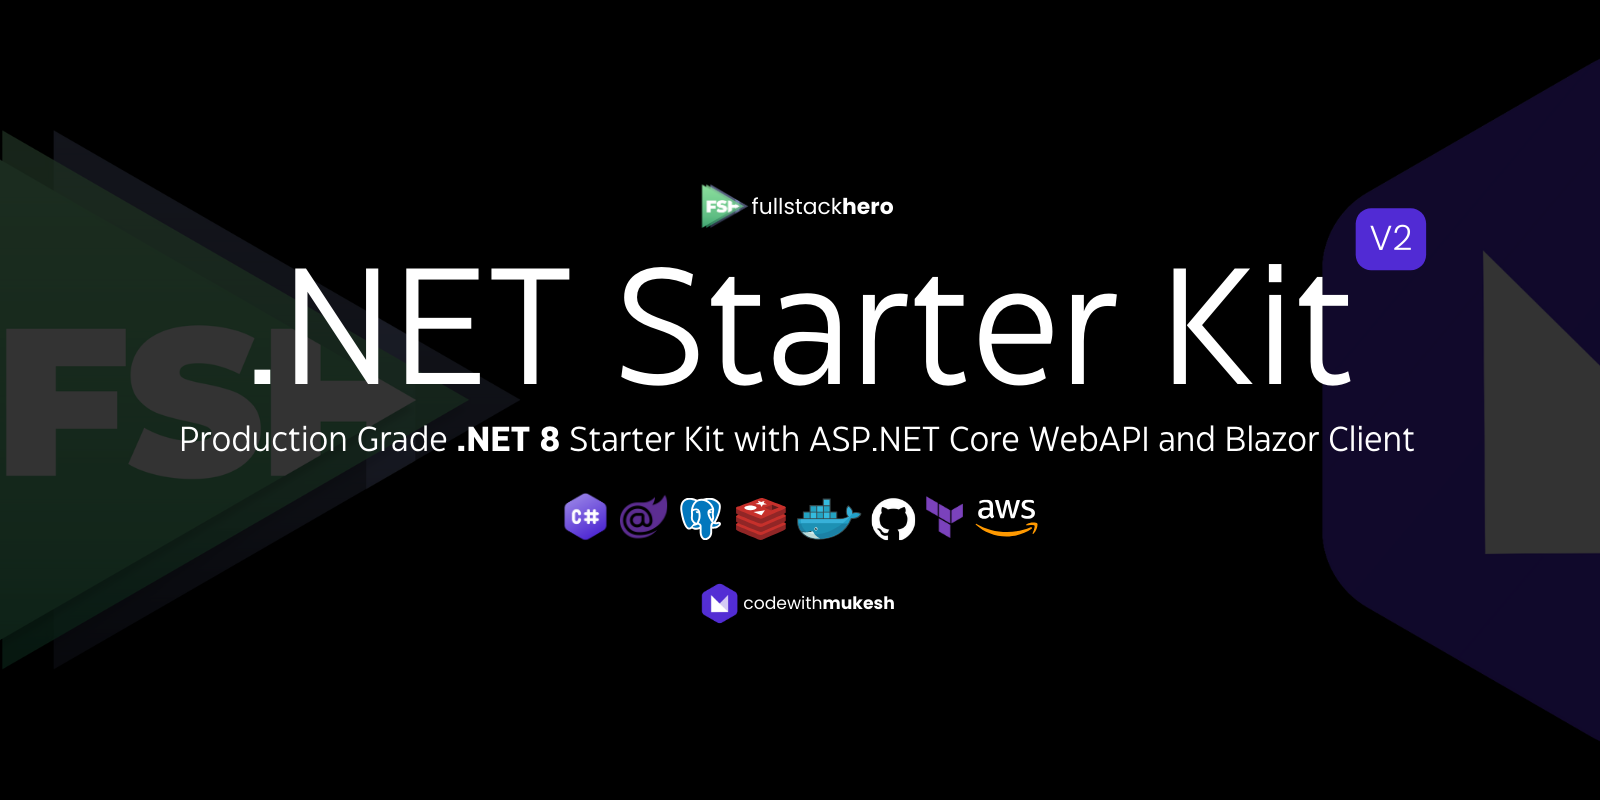
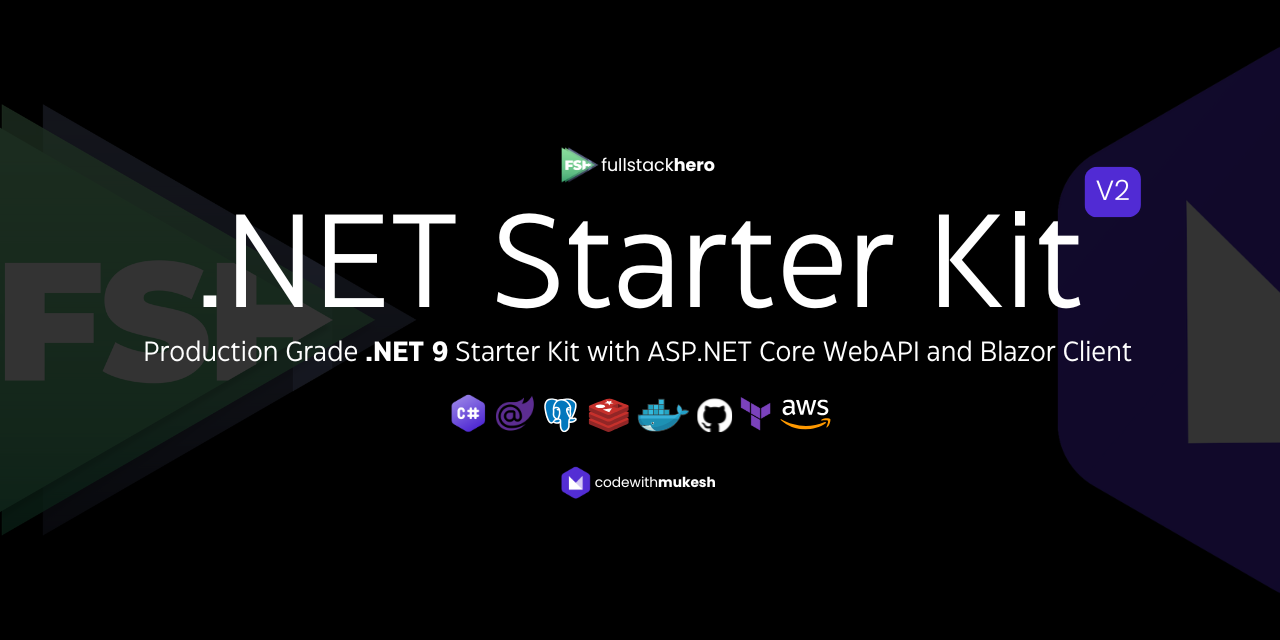
feat : upgrade to .NET 9 (#1061)
* update nuget and deps to 9.0

* update infra

* update to .net 9

* update docs

* fix issue

diff --git a/src/apps/blazor/infrastructure/Themes/CustomTypography.cs b/src/apps/blazor/infrastructure/Themes/CustomTypography.cs
@@ -8,7 +8,7 @@ public static class CustomTypography
     {
         Default = new Default()
         {
-            FontFamily = new[] { "Montserrat", "Helvetica", "Arial", "sans-serif" },
+            FontFamily = ["Montserrat", "Helvetica", "Arial", "sans-serif"],
             FontSize = ".875rem",
             FontWeight = 400,
             LineHeight = 1.43,
@@ -16,7 +16,7 @@ public static class CustomTypography
         },
         H1 = new H1()
         {
-            FontFamily = new[] { "Montserrat", "Helvetica", "Arial", "sans-serif" },
+            FontFamily = ["Montserrat", "Helvetica", "Arial", "sans-serif"],
             FontSize = "3rem",
             FontWeight = 300,
             LineHeight = 1.167,
@@ -24,7 +24,7 @@ public static class CustomTypography
         },
         H2 = new H2()
         {
-            FontFamily = new[] { "Montserrat", "Helvetica", "Arial", "sans-serif" },
+            FontFamily = ["Montserrat", "Helvetica", "Arial", "sans-serif"],
             FontSize = "2.75rem",
             FontWeight = 300,
             LineHeight = 1.2,
@@ -32,7 +32,7 @@ public static class CustomTypography
         },
         H3 = new H3()
         {
-            FontFamily = new[] { "Montserrat", "Helvetica", "Arial", "sans-serif" },
+            FontFamily = ["Montserrat", "Helvetica", "Arial", "sans-serif"],
             FontSize = "2rem",
             FontWeight = 400,
             LineHeight = 1.167,
@@ -40,7 +40,7 @@ public static class CustomTypography
         },
         H4 = new H4()
         {
-            FontFamily = new[] { "Montserrat", "Helvetica", "Arial", "sans-serif" },
+            FontFamily = ["Montserrat", "Helvetica", "Arial", "sans-serif"],
             FontSize = "1.75rem",
             FontWeight = 400,
             LineHeight = 1.235,
@@ -48,7 +48,7 @@ public static class CustomTypography
         },
         H5 = new H5()
         {
-            FontFamily = new[] { "Montserrat", "Helvetica", "Arial", "sans-serif" },
+            FontFamily = ["Montserrat", "Helvetica", "Arial", "sans-serif"],
             FontSize = "1.5rem",
             FontWeight = 400,
             LineHeight = 1.334,
@@ -56,7 +56,7 @@ public static class CustomTypography
         },
         H6 = new H6()
         {
-            FontFamily = new[] { "Montserrat", "Helvetica", "Arial", "sans-serif" },
+            FontFamily = ["Montserrat", "Helvetica", "Arial", "sans-serif"],
             FontSize = "1.25rem",
             FontWeight = 400,
             LineHeight = 1.6,
@@ -64,7 +64,7 @@ public static class CustomTypography
         },
         Button = new Button()
         {
-            FontFamily = new[] { "Montserrat", "Helvetica", "Arial", "sans-serif" },
+            FontFamily = ["Montserrat", "Helvetica", "Arial", "sans-serif"],
             FontSize = ".875rem",
             FontWeight = 400,
             LineHeight = 1.75,
@@ -72,7 +72,7 @@ public static class CustomTypography
         },
         Body1 = new Body1()
         {
-            FontFamily = new[] { "Montserrat", "Helvetica", "Arial", "sans-serif" },
+            FontFamily = ["Montserrat", "Helvetica", "Arial", "sans-serif"],
             FontSize = "1rem",
             FontWeight = 400,
             LineHeight = 1.5,
@@ -80,7 +80,7 @@ public static class CustomTypography
         },
         Body2 = new Body2()
         {
-            FontFamily = new[] { "Montserrat", "Helvetica", "Arial", "sans-serif" },
+            FontFamily = ["Montserrat", "Helvetica", "Arial", "sans-serif"],
             FontSize = ".875rem",
             FontWeight = 400,
             LineHeight = 1.43,
@@ -88,7 +88,7 @@ public static class CustomTypography
         },
         Caption = new Caption()
         {
-            FontFamily = new[] { "Montserrat", "Helvetica", "Arial", "sans-serif" },
+            FontFamily = ["Montserrat", "Helvetica", "Arial", "sans-serif"],
             FontSize = ".75rem",
             FontWeight = 200,
             LineHeight = 1.66,
@@ -96,7 +96,7 @@ public static class CustomTypography
         },
         Subtitle1 = new Subtitle1()
         {
-            FontFamily = new[] { "Montserrat", "Helvetica", "Arial", "sans-serif" },
+            FontFamily = ["Montserrat", "Helvetica", "Arial", "sans-serif"],
             FontSize = "1rem",
             FontWeight = 400,
             LineHeight = 1.57,
@@ -104,7 +104,7 @@ public static class CustomTypography
         },
         Subtitle2 = new Subtitle2()
         {
-            FontFamily = new[] { "Montserrat", "Helvetica", "Arial", "sans-serif" },
+            FontFamily = ["Montserrat", "Helvetica", "Arial", "sans-serif"],
             FontSize = ".875rem",
             FontWeight = 400,
             LineHeight = 1.57,

diff --git a/src/api/framework/Core/Audit/TrailDto.cs b/src/api/framework/Core/Audit/TrailDto.cs
@@ -7,14 +7,14 @@ public class TrailDto()
     public Guid Id { get; set; }
     public DateTimeOffset DateTime { get; set; }
     public Guid UserId { get; set; }
-    public Dictionary<string, object?> KeyValues { get; } = new();
-    public Dictionary<string, object?> OldValues { get; } = new();
-    public Dictionary<string, object?> NewValues { get; } = new();
-    public Collection<string> ModifiedProperties { get; } = new();
+    public Dictionary<string, object?> KeyValues { get; } = [];
+    public Dictionary<string, object?> OldValues { get; } = [];
+    public Dictionary<string, object?> NewValues { get; } = [];
+    public Collection<string> ModifiedProperties { get; } = [];
     public TrailType Type { get; set; }
     public string? TableName { get; set; }
 
-    private static readonly JsonSerializerOptions serializerOptions = new()
+    private static readonly JsonSerializerOptions SerializerOptions = new()
     {
         WriteIndented = false,
     };
@@ -28,10 +28,10 @@ public class TrailDto()
             Operation = Type.ToString(),
             Entity = TableName,
             DateTime = DateTime,
-            PrimaryKey = JsonSerializer.Serialize(KeyValues, serializerOptions),
-            PreviousValues = OldValues.Count == 0 ? null : JsonSerializer.Serialize(OldValues, serializerOptions),
-            NewValues = NewValues.Count == 0 ? null : JsonSerializer.Serialize(NewValues, serializerOptions),
-            ModifiedProperties = ModifiedProperties.Count == 0 ? null : JsonSerializer.Serialize(ModifiedProperties, serializerOptions)
+            PrimaryKey = JsonSerializer.Serialize(KeyValues, SerializerOptions),
+            PreviousValues = OldValues.Count == 0 ? null : JsonSerializer.Serialize(OldValues, SerializerOptions),
+            NewValues = NewValues.Count == 0 ? null : JsonSerializer.Serialize(NewValues, SerializerOptions),
+            ModifiedProperties = ModifiedProperties.Count == 0 ? null : JsonSerializer.Serialize(ModifiedProperties, SerializerOptions)
         };
     }
 }

diff --git a/src/Shared/Authorization/FshPermissions.cs b/src/Shared/Authorization/FshPermissions.cs
@@ -4,8 +4,8 @@ namespace FSH.Starter.Shared.Authorization;
 
 public static class FshPermissions
 {
-    private static readonly FshPermission[] allPermissions =
-   {     
+    private static readonly FshPermission[] AllPermissions =
+    [     
         //tenants
         new("View Tenants", FshActions.View, FshResources.Tenants, IsRoot: true),
         new("Create Tenants", FshActions.Create, FshResources.Tenants, IsRoot: true),
@@ -57,12 +57,12 @@ public static class FshPermissions
 
         //audit
         new("View Audit Trails", FshActions.View, FshResources.AuditTrails),
-   };
+    ];
 
-    public static IReadOnlyList<FshPermission> All { get; } = new ReadOnlyCollection<FshPermission>(allPermissions);
-    public static IReadOnlyList<FshPermission> Root { get; } = new ReadOnlyCollection<FshPermission>(allPermissions.Where(p => p.IsRoot).ToArray());
-    public static IReadOnlyList<FshPermission> Admin { get; } = new ReadOnlyCollection<FshPermission>(allPermissions.Where(p => !p.IsRoot).ToArray());
-    public static IReadOnlyList<FshPermission> Basic { get; } = new ReadOnlyCollection<FshPermission>(allPermissions.Where(p => p.IsBasic).ToArray());
+    public static IReadOnlyList<FshPermission> All { get; } = new ReadOnlyCollection<FshPermission>(AllPermissions);
+    public static IReadOnlyList<FshPermission> Root { get; } = new ReadOnlyCollection<FshPermission>(AllPermissions.Where(p => p.IsRoot).ToArray());
+    public static IReadOnlyList<FshPermission> Admin { get; } = new ReadOnlyCollection<FshPermission>(AllPermissions.Where(p => !p.IsRoot).ToArray());
+    public static IReadOnlyList<FshPermission> Basic { get; } = new ReadOnlyCollection<FshPermission>(AllPermissions.Where(p => p.IsBasic).ToArray());
 }
 
 public record FshPermission(string Description, string Action, string Resource, bool IsBasic = false, bool IsRoot = false)

diff --git a/src/api/framework/Infrastructure/SecurityHeaders/Extensions.cs b/src/api/framework/Infrastructure/SecurityHeaders/Extensions.cs
@@ -13,11 +13,11 @@ public static class Extensions
 
         return services;
     }
-    
+
     internal static IApplicationBuilder UseSecurityHeaders(this IApplicationBuilder app)
     {
         var options = app.ApplicationServices.GetRequiredService<IOptions<SecurityHeaderOptions>>().Value;
-        
+
         if (options.Enable)
         {
             app.Use(async (context, next) =>
@@ -48,22 +48,22 @@ public static class Extensions
                     {
                         context.Response.Headers.XXSSProtection = options.Headers.XXSSProtection;
                     }
-                
+
                     if (!string.IsNullOrWhiteSpace(options.Headers.ContentSecurityPolicy))
                     {
                         context.Response.Headers.ContentSecurityPolicy = options.Headers.ContentSecurityPolicy;
                     }
-                
+
                     if (!string.IsNullOrWhiteSpace(options.Headers.StrictTransportSecurity))
                     {
                         context.Response.Headers.StrictTransportSecurity = options.Headers.StrictTransportSecurity;
                     }
                 }
-            
+
                 await next.Invoke();
             });
         }
-        
+
         return app;
     }
 }

diff --git a/src/api/framework/Infrastructure/Tenant/Extensions.cs b/src/api/framework/Infrastructure/Tenant/Extensions.cs
@@ -27,16 +27,16 @@ internal static class Extensions
             {
                 // to save database calls to resolve tenant
                 // this was happening for every request earlier, leading to ineffeciency
-                config.Events.OnTenantResolved = async (context) =>
+                config.Events.OnTenantResolveCompleted = async (context) =>
                 {
-                    if (context.StoreType != typeof(DistributedCacheStore<FshTenantInfo>))
+                    if (context.MultiTenantContext.StoreInfo!.StoreType != typeof(DistributedCacheStore<FshTenantInfo>))
                     {
                         var sp = ((HttpContext)context.Context!).RequestServices;
                         var distributedCacheStore = sp
                             .GetService<IEnumerable<IMultiTenantStore<FshTenantInfo>>>()!
                             .FirstOrDefault(s => s.GetType() == typeof(DistributedCacheStore<FshTenantInfo>));
 
-                        await distributedCacheStore!.TryAddAsync((FshTenantInfo)context.TenantInfo!);
+                        await distributedCacheStore!.TryAddAsync(context.MultiTenantContext.TenantInfo!);
                     }
                     await Task.FromResult(0);
                 };

diff --git a/src/apps/blazor/infrastructure/Auth/Extensions.cs b/src/apps/blazor/infrastructure/Auth/Extensions.cs
@@ -1,11 +1,11 @@
 using FSH.Starter.Blazor.Infrastructure.Auth.Jwt;
+using FSH.Starter.Shared.Authorization;
 using Microsoft.AspNetCore.Authorization;
 using Microsoft.AspNetCore.Components.Authorization;
 using Microsoft.AspNetCore.Components.WebAssembly.Authentication;
 using Microsoft.AspNetCore.Components.WebAssembly.Authentication.Internal;
 using Microsoft.Extensions.Configuration;
 using Microsoft.Extensions.DependencyInjection;
-using FSH.Starter.Shared.Authorization;
 
 namespace FSH.Starter.Blazor.Infrastructure.Auth;
 public static class Extensions
@@ -26,9 +26,9 @@ public static class Extensions
 
     private static void RegisterPermissionClaims(AuthorizationOptions options)
     {
-        foreach (var permission in FshPermissions.All)
+        foreach (var permission in FshPermissions.All.Select(p => p.Name))
         {
-            options.AddPolicy(permission.Name, policy => policy.RequireClaim(FshClaims.Permission, permission.Name));
+            options.AddPolicy(permission, policy => policy.RequireClaim(FshClaims.Permission, permission));
         }
     }
 }

diff --git a/src/api/modules/Todo/Persistence/TodoDbInitializer.cs b/src/api/modules/Todo/Persistence/TodoDbInitializer.cs
@@ -19,11 +19,11 @@ internal sealed class TodoDbInitializer(
 
     public async Task SeedAsync(CancellationToken cancellationToken)
     {
-        const string Title = "Hello World!";
-        const string Note = "This is your first task";
-        if (await context.Todos.FirstOrDefaultAsync(t => t.Title == Title, cancellationToken).ConfigureAwait(false) is null)
+        const string title = "Hello World!";
+        const string note = "This is your first task";
+        if (await context.Todos.FirstOrDefaultAsync(t => t.Title == title, cancellationToken).ConfigureAwait(false) is null)
         {
-            var todo = TodoItem.Create(Title, Note);
+            var todo = TodoItem.Create(title, note);
             await context.Todos.AddAsync(todo, cancellationToken);
             await context.SaveChangesAsync(cancellationToken).ConfigureAwait(false);
             logger.LogInformation("[{Tenant}] seeding default todo data", context.TenantInfo!.Identifier);

diff --git a/src/api/modules/Todo/Features/GetList/v1/GetTodoListHandler.cs b/src/api/modules/Todo/Features/GetList/v1/GetTodoListHandler.cs
@@ -15,11 +15,11 @@ public sealed class GetTodoListHandler(
     {
         ArgumentNullException.ThrowIfNull(request);
 
-        var spec = new EntitiesByPaginationFilterSpec<TodoItem, TodoDto>(request.filter);
+        var spec = new EntitiesByPaginationFilterSpec<TodoItem, TodoDto>(request.Filter);
 
         var items = await repository.ListAsync(spec, cancellationToken).ConfigureAwait(false);
         var totalCount = await repository.CountAsync(spec, cancellationToken).ConfigureAwait(false);
 
-        return new PagedList<TodoDto>(items, request.filter.PageNumber, request.filter.PageSize, totalCount);
+        return new PagedList<TodoDto>(items, request.Filter.PageNumber, request.Filter.PageSize, totalCount);
     }
 }

diff --git a/src/api/framework/Core/Exceptions/ForbiddenException.cs b/src/api/framework/Core/Exceptions/ForbiddenException.cs
@@ -1,15 +1,14 @@
-using System.Collections.ObjectModel;
-using System.Net;
+using System.Net;
 
 namespace FSH.Framework.Core.Exceptions;
 public class ForbiddenException : FshException
 {
     public ForbiddenException()
-        : base("unauthorized", new Collection<string>(), HttpStatusCode.Forbidden)
+        : base("unauthorized", [], HttpStatusCode.Forbidden)
     {
     }
     public ForbiddenException(string message)
-       : base(message, new Collection<string>(), HttpStatusCode.Forbidden)
+       : base(message, [], HttpStatusCode.Forbidden)
     {
     }
 }

diff --git a/src/Shared/Authorization/AppConstants.cs b/src/Shared/Authorization/AppConstants.cs
@@ -3,12 +3,12 @@
 namespace FSH.Starter.Shared.Authorization;
 public static class AppConstants
 {
-    public static readonly Collection<string> SupportedImageFormats = new()
-    {
+    public static readonly Collection<string> SupportedImageFormats =
+    [
         ".jpeg",
         ".jpg",
         ".png"
-    };
+    ];
     public static readonly string StandardImageFormat = "image/jpeg";
     public static readonly int MaxImageWidth = 1500;
     public static readonly int MaxImageHeight = 1500;

diff --git a/src/api/migrations/PostgreSQL/Identity/20240601095842_Add Identity Schema.cs b/src/api/migrations/PostgreSQL/Identity/20240601095842_Add Identity Schema.cs
@@ -199,7 +199,7 @@ namespace FSH.Starter.WebApi.Migrations.PostgreSQL.Identity
                 name: "RoleNameIndex",
                 schema: "identity",
                 table: "Roles",
-                columns: new[] { "NormalizedName", "TenantId" },
+                columns: ["NormalizedName", "TenantId"],
                 unique: true);
 
             migrationBuilder.CreateIndex(

diff --git a/src/api/framework/Core/Auth/Jwt/JwtOptions.cs b/src/api/framework/Core/Auth/Jwt/JwtOptions.cs
@@ -13,7 +13,7 @@ public class JwtOptions : IValidatableObject
     {
         if (string.IsNullOrEmpty(Key))
         {
-            yield return new ValidationResult("No Key defined in JwtSettings config", new[] { nameof(Key) });
+            yield return new ValidationResult("No Key defined in JwtSettings config", [nameof(Key)]);
         }
     }
 }
